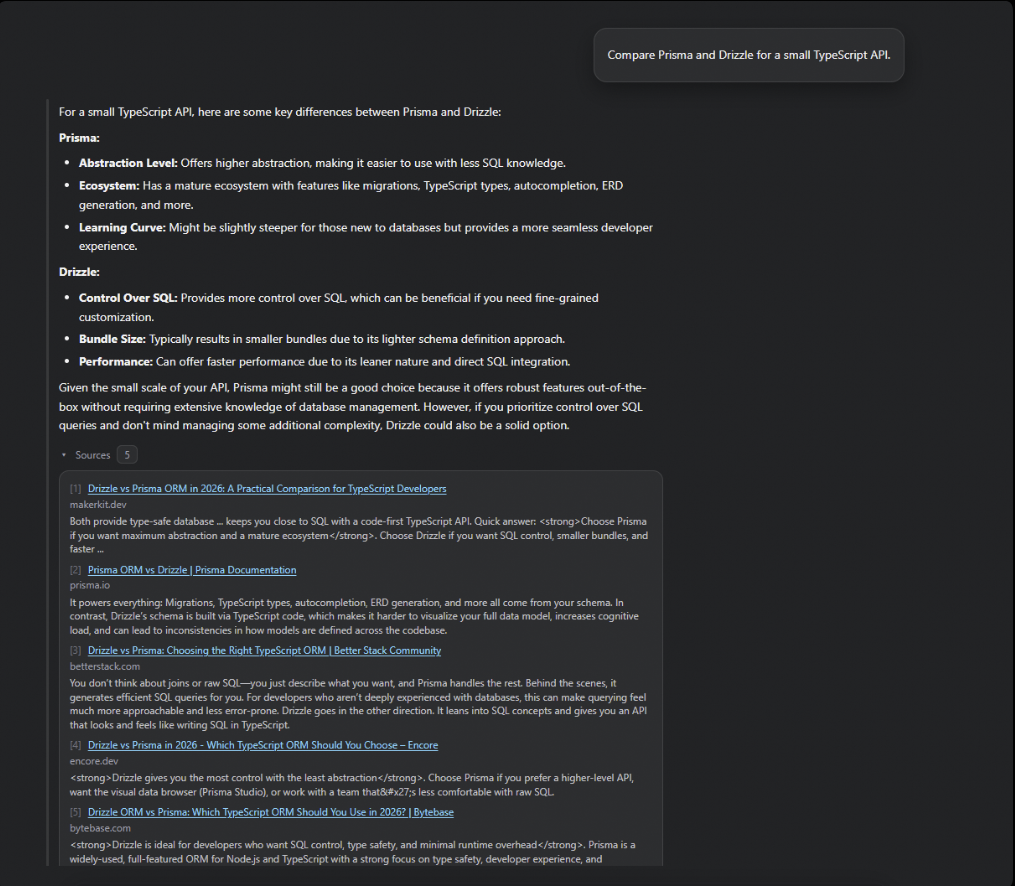
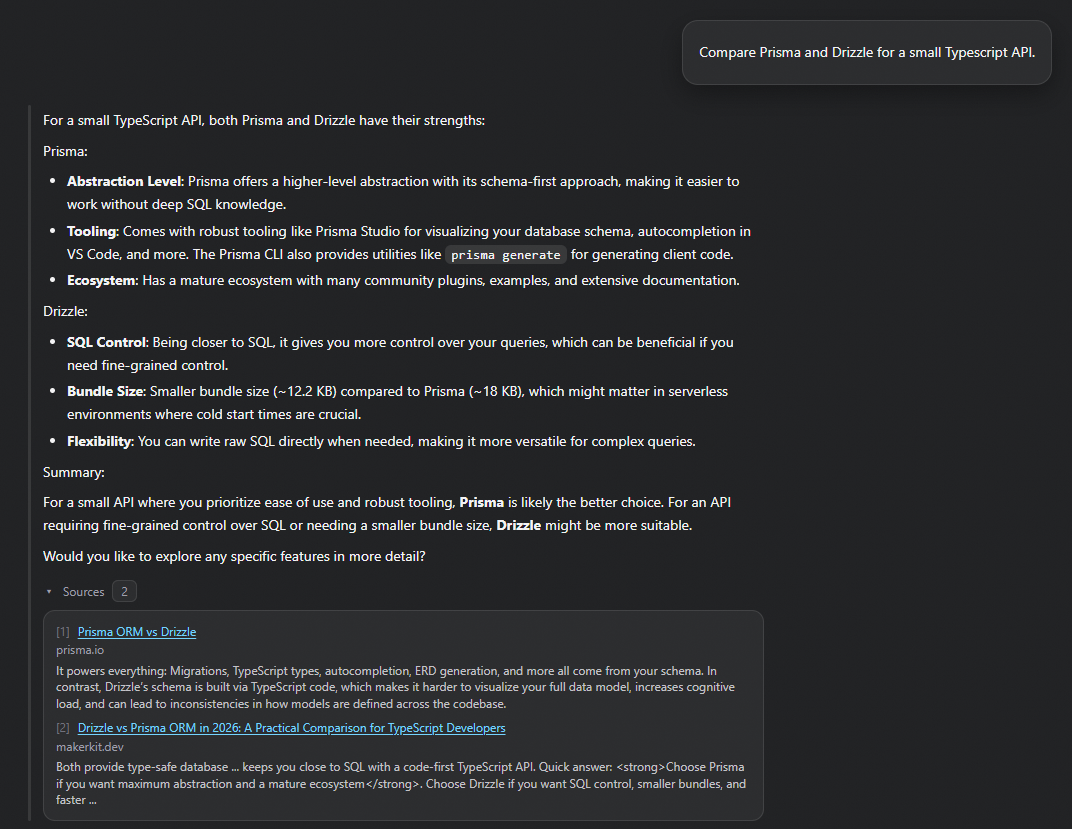
update xandergpt case study and search evidence screenshot

Changed region(s): [[0.0305, 0.1206, 0.7025, 0.9952], [0.6108, 0.0, 1.0, 0.0905], [0.9773, 0.9952, 1.0, 1.0]]

diff --git a/src/lib/projects.ts b/src/lib/projects.ts
@@ -315,10 +315,10 @@ export const projects: Project[] = [
           images: [
             {
               src: "/casestudies/xandergpt/search.png",
-              alt: "Earlier xanderGPT interface showing a Prisma and Drizzle comparison with five Brave search result cards below the answer",
-              caption: "This screenshot captures the earlier snippet-based search flow. The current version shows only the smaller evidence set supplied to the answering model and asks it to cite those sources inline.",
-              width: 1015,
-              height: 886,
+              alt: "xanderGPT answer comparing Prisma and Drizzle with two selected web evidence sources below it",
+              caption: "The current search flow narrows retrieval to a bounded evidence set, then exposes the same sources supplied to the answering model beneath its response.",
+              width: 1072,
+              height: 829,
               layout: "inset",
               lightboxSize: "standard",
             },